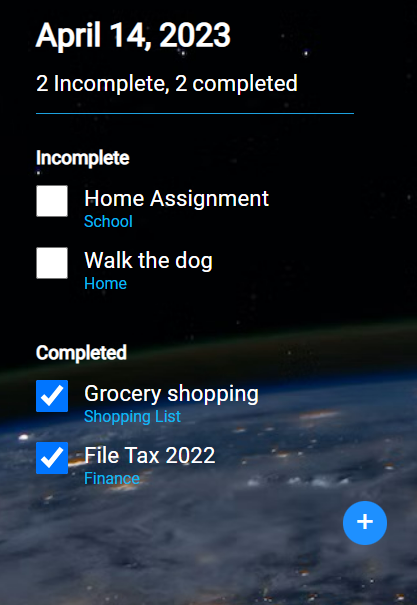
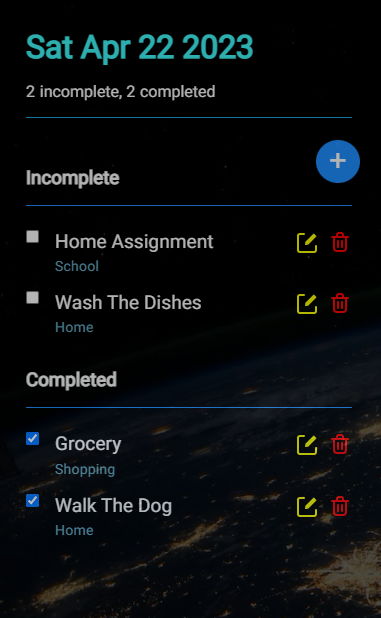
fix bugs, improve styling, edit readme, change screenshot

diff --git a/index.js b/index.js
@@ -1,4 +1,11 @@
-import { getTodaysDate, updateStats } from "./util.js";
+import {
+  getTodaysDate,
+  updateStats,
+  updateTodo,
+  getTodo,
+  addTodo,
+  getTodos,
+} from "./util.js";
 
 const date = document.getElementById("date");
 date.innerText = getTodaysDate();
@@ -10,14 +17,17 @@ const btnAdd = document.getElementById("btn-add");
 const btnCancel = document.getElementById("btn-cancel");
 const itemForm = document.getElementById("item-form");
 
-let incompleteSection = document.getElementById("incomplete-section");
-let completeSection = document.getElementById("complete-section");
+const incompleteSection = document.getElementById("incomplete-section");
+const completeSection = document.getElementById("complete-section");
 
-const form = document.querySelector(".form-container");
-const btnDelete = document.querySelector(".delete");
+const itemInput = document.getElementById("item-input");
+const categoryInput = document.getElementById("category-input");
 
-let todosArray = JSON.parse(localStorage.getItem("todos")) || [];
-updateStats(todosArray);
+const formAddEdit = document.querySelector(".form-container");
+
+const todos = JSON.parse(localStorage.getItem("todos"));
+let items = todos.items || [];
+
 updateStatsHtml();
 
 function openItemForm() {
@@ -26,82 +36,89 @@ function openItemForm() {
 
 function closeItemForm() {
   itemForm.style.display = "none";
+  itemInput.value = "";
+  categoryInput.value = "";
 }
 
-function createTodoHtml(todo) {
-  const todoItem = document.createElement("div");
-  todoItem.setAttribute("class", "todo");
-  todoItem.setAttribute(`data-id`, todo.id);
+function updateStatsHtml() {
+  updateStats(items);
+  const todos = getTodos();
+  const stats = todos.stats;
+  incomplete.innerText = stats.incompleteCount;
+  complete.innerText = stats.completedCount;
+}
+
+
+function todoCheckboxHtml(inputCheckbox) {
+  inputCheckbox.addEventListener("change", (event) => {
+    const todoId = event.target.parentElement.dataset.id;
+    items.forEach((todo) => {
+      if (todo.id === todoId) {
+        todo.completed = !todo.completed;
+        updateStatsHtml();
+        const currentTodoElement = event.target.parentElement;
+        todo.completed
+          ? completeSection.appendChild(currentTodoElement)
+          : incompleteSection.appendChild(currentTodoElement);
+      }
+    });
+  });
+}
+
+function openEditForm(event) {
+  event.preventDefault();
+  const todoItem =
+    event.target.parentElement.parentElement.parentElement.parentElement;
+  const id = todoItem.dataset.id;
+  openItemForm();
+  const editTodo = getTodo(id, items)[0];
+  itemInput.value = editTodo.todo;
+  categoryInput.value = editTodo.category;
+  itemInput.setAttribute("data-id", id);
+}
+
+function handleDelete(event) {
+  const todoItem =
+    event.target.parentElement.parentElement.parentElement.parentElement;
+  items.forEach((todo, i) => {
+    if (todo.id === todoItem.dataset.id) {
+      items.splice(i, 1);
+    }
+  });
+  localStorage.setItem("todos", JSON.stringify(items));
+  updateStats(items);
+  updateStatsHtml();
+  todoItem.remove();
+}
+
+function renderAllTodos(items) {
+  updateStats(items);
+  updateStatsHtml();
+  items.forEach((item) => renderTodo(item));
+}
+
+function renderTodo(todo) {
+  const todoDiv = document.createElement("div");
+  todoDiv.setAttribute("class", "todo");
+  todoDiv.setAttribute(`data-id`, todo.id);
 
   const inputCheckbox = document.createElement("input");
   inputCheckbox.setAttribute("type", "checkbox");
   inputCheckbox.checked = todo.completed;
   todoCheckboxHtml(inputCheckbox);
 
-  todoItem.appendChild(inputCheckbox);
+  todoDiv.appendChild(inputCheckbox);
 
-  todoNameAndCategoryHtml(todo, todoItem);
-}
-
-function updateStatsHtml() {
-  const {
-    total = 0,
-    incompleteCount = 0,
-    completedCount = 0,
-  } = JSON.parse(localStorage.getItem("stats") || {});
-  console.log(incompleteCount);
-  incomplete.innerText = incompleteCount;
-  complete.innerText = completedCount;
-}
-
-function todoCheckboxHtml(inputCheckbox) {
-  // Add event listener to the checkbox
-  inputCheckbox.addEventListener("change", (event) => {
-    const todoId = event.target.parentElement.dataset.id;
-    console.log(todosArray);
-    todosArray.forEach((todo, i) => {
-      if (todo.id === +todoId) {
-        todo.completed = !todo.completed;
-        event.target.parentElement.remove();
-        todo.completed
-          ? completeSection.appendChild(event.target.parentElement)
-          : incompleteSection.appendChild(event.target.parentElement);
-      }
-    });
-    localStorage.setItem("todos", JSON.stringify(todosArray));
-    updateStats(todosArray);
-    updateStatsHtml();
-  });
-}
-
-function handleEdit(event) {
-}
-
-function handleDelete(event) {
-  console.log(event.target);
-  const todoItem =
-    event.target.parentElement.parentElement.parentElement.parentElement;
-  todosArray.forEach((todo, i) => {
-    if (todo.id === +todoItem.dataset.id) {
-      todosArray.splice(i, 1);
-    }
-  });
-  localStorage.setItem("todos", JSON.stringify(todosArray));
-  updateStats(todosArray);
-  updateStatsHtml();
-  todoItem.remove();
-}
-function todoNameAndCategoryHtml(todo, todoItem) {
   const description = document.createElement("div");
   description.setAttribute("class", "description");
-  const itemName = document.createElement("p");
+  const itemName = document.createElement("div");
   itemName.setAttribute("class", "item-name");
-  itemName.innerText = todo.todo;
+  itemName.innerHTML = `<p>${todo.todo}</p>`
 
   const svgEdit = document.createElement("img");
   svgEdit.setAttribute("src", "./images/edit.svg");
   svgEdit.setAttribute("class", "edit");
-  svgEdit.addEventListener("click", handleEdit);
+  svgEdit.addEventListener("click", openEditForm);
 
   const svgDelete = document.createElement("img");
   svgDelete.setAttribute("src", "./images/delete.svg");
@@ -119,31 +136,38 @@ function todoNameAndCategoryHtml(todo, todoItem) {
   itemCategory.innerText = todo.category;
   description.appendChild(itemName);
   description.appendChild(itemCategory);
-  todoItem.appendChild(description);
+  todoDiv.appendChild(description);
 
   todo.completed
-    ? completeSection.appendChild(todoItem)
-    : incompleteSection.appendChild(todoItem);
+    ? completeSection.appendChild(todoDiv)
+    : incompleteSection.appendChild(todoDiv);
 }
 
-function handleItem(event) {
+function resetTodoHtml() {
+  completeSection.innerText = "";
+  incompleteSection.innerText = "";
+}
+
+function handleAddEditItem(event) {
+  resetTodoHtml();
   event.preventDefault();
+  const todoItem = event.target;
   const itemInput = document.getElementById("item-input");
   const categoryInput = document.getElementById("category-input");
   const itemValue = itemInput.value;
   const categoryValue = categoryInput.value;
-  const newTodoId = todosArray.length + 1;
-  const newTodo = {
-    id: newTodoId,
-    todo: itemValue,
-    category: categoryValue,
-    completed: false,
-  };
-  todosArray.push(newTodo);
-  localStorage.setItem("todos", JSON.stringify(todosArray));
-  updateStats(todosArray);
-  updateStatsHtml();
-  createTodoHtml(newTodo);
+  const id = todoItem.children[2].dataset.id;
+  if (id) {
+    const editTodo = {
+      todo: itemValue,
+      category: categoryValue,
+    };
+    updateTodo(todos, id, editTodo);
+    itemInput.removeAttribute("data-id");
+  } else {
+    addTodo(itemValue, categoryValue, todos);
+  }
+  renderAllTodos(items);
   itemInput.value = "";
   categoryInput.value = "";
   closeItemForm();
@@ -151,8 +175,10 @@ function handleItem(event) {
 
 btnAdd.addEventListener("click", openItemForm);
 btnCancel.addEventListener("click", closeItemForm);
-form.addEventListener("submit", handleItem);
+formAddEdit.addEventListener("submit", handleAddEditItem);
 
-todosArray.forEach((todo) => {
-  createTodoHtml(todo);
+document.addEventListener("DOMContentLoaded", () => {
+  if (items.length > 0) {
+    renderAllTodos(items);
+  }
 });

diff --git a/util.js b/util.js
@@ -2,16 +2,57 @@ export function getTodaysDate() {
   const date = new Date(Date.now()).toDateString();
   return date;
 }
-export function updateStats(todos) {
+export function updateStats(items) {
   let completedCount = 0;
-  todos.forEach((todo) => {
-    if (todo.completed) {
+  items.forEach((item) => {
+    if (item.completed) {
       completedCount++;
     }
   });
-  const total = todos.length;
+  const total = items.length;
   const incompleteCount = total - completedCount;
-  const stats = { total, completedCount, incompleteCount };
-  localStorage.setItem("stats", JSON.stringify(stats));
+  const newStats = { total, completedCount, incompleteCount };
+  const newTodos = {
+    items,
+    stats: newStats
+  };
+  localStorage.setItem("todos", JSON.stringify(newTodos));
+}
+
+export function updateTodo(todos, id, newItem) {
+  todos.items.forEach((item) => {
+    if (item.id === id) {
+      item.todo = newItem.todo;
+      item.category = newItem.category;
+      return;
+    }
+  });
+
+  localStorage.setItem("todos", JSON.stringify(todos));
+}
+
+export function addTodo(todo, category, todos) {
+      const newItemId = self.crypto.randomUUID();
+      const newItem = {
+        id: newItemId,
+        todo,
+        category,
+        completed: false,
+      };
+      todos.items.push(newItem);
+      todos.stats.incompleteCount++;
+      todos.stats.total++;
+      localStorage.setItem("todos", JSON.stringify(todos));
+}
+
+export function getTodo(id, items) {
+  return items.filter((item) => {
+    if (item.id === id) return item;
+  });
+}
+
+export function getTodos() {
+    const todos = JSON.parse(localStorage.getItem("todos")) || {};
+    return todos;
 }
 

diff --git a/style.css b/style.css
@@ -48,7 +48,7 @@ header {
   margin-right: 0.3rem;
 }
 
-#complete-section {
+#complete-section, #incomplete-section {
   padding-top: 0.5rem;
   border-top: 1px solid dodgerblue;
 }
@@ -71,8 +71,9 @@ input[type="checkbox"] {
 }
 
 .category {
-  font-size: 0.8rem;
-  color: rgb(10, 186, 240);
+  font-size: 0.9rem;
+  color: rgb(99, 170, 192);
+  margin-top: 0.2rem;
 }
 
 .description {
@@ -116,6 +117,7 @@ input[type="checkbox"] {
   }
   .category {
     font-size: 1rem;
+
   }
 
 }
@@ -187,16 +189,18 @@ input[type="checkbox"] {
 .item-name {
   display: flex;
   justify-content: space-between;
+  font-size: 1.2rem;
 }
 
 .edit, .delete {
-  width: 2rem;
+  width: 1.5rem;
   cursor: pointer;
 }
 
 .divEditDelete {
   display: flex;
-  gap: 0.2rem;
+  gap: 0.5rem;
   justify-content: center;
   align-items: center;
 }
+

diff --git a/index.html b/index.html
@@ -19,11 +19,13 @@
       <p id="status-overall"><span id="incomplete"></span>incomplete, <span id="complete"></span>completed</p>
     </header>
     <main>
+      <h3>Incomplete</h3>
       <section id="incomplete-section">
-        <h3>Incomplete</h3>
+
       </section>
+      <h3>Completed</h3>
       <section id="complete-section">
-        <h3>Completed</h3>
+
       </section>
       <button id="btn-add">+</button>
       <div class="form-popup" id="item-form">

diff --git a/README.md b/README.md
@@ -18,6 +18,7 @@
 ## Resources:
 - [100-javascript-project-ideas](https://webtips.dev/100-javascript-project-ideas)
 - [Popup Form](https://www.w3schools.com/howto/tryit.asp?filename=tryhow_js_popup_form)
+- [SVG icons](https://www.svgrepo.com/)
 
 
 Author: [muhiddinkurbonov](https://github.com/muhiddinkurbonov)
